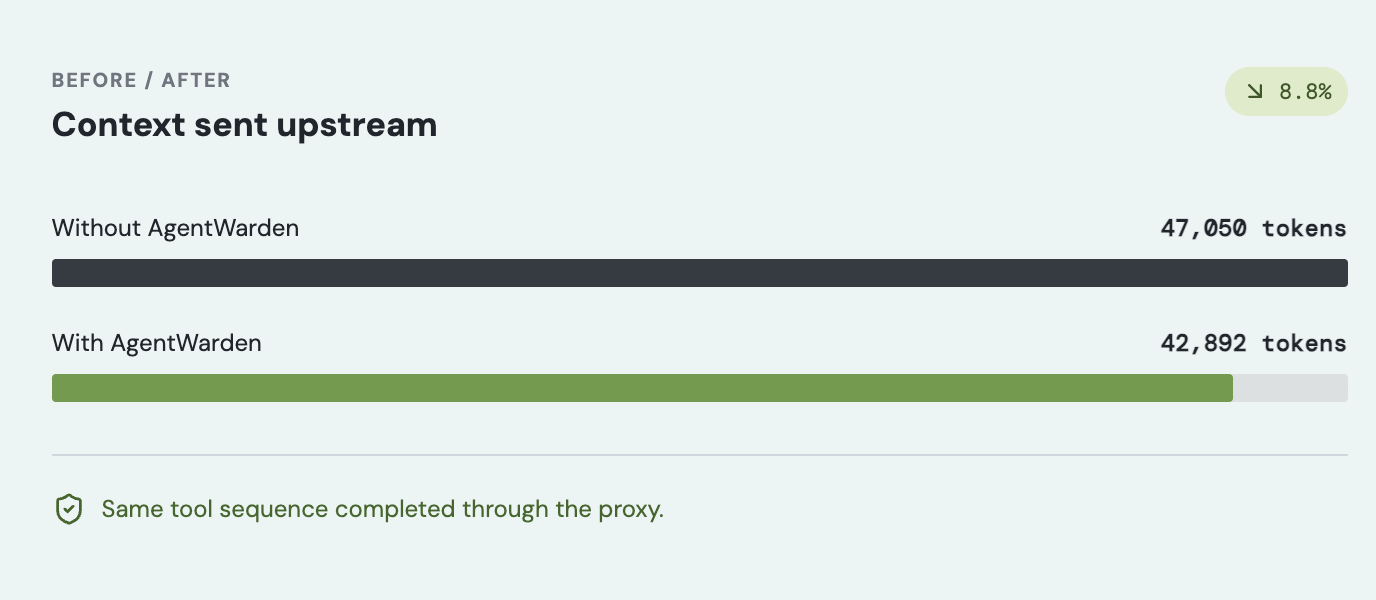
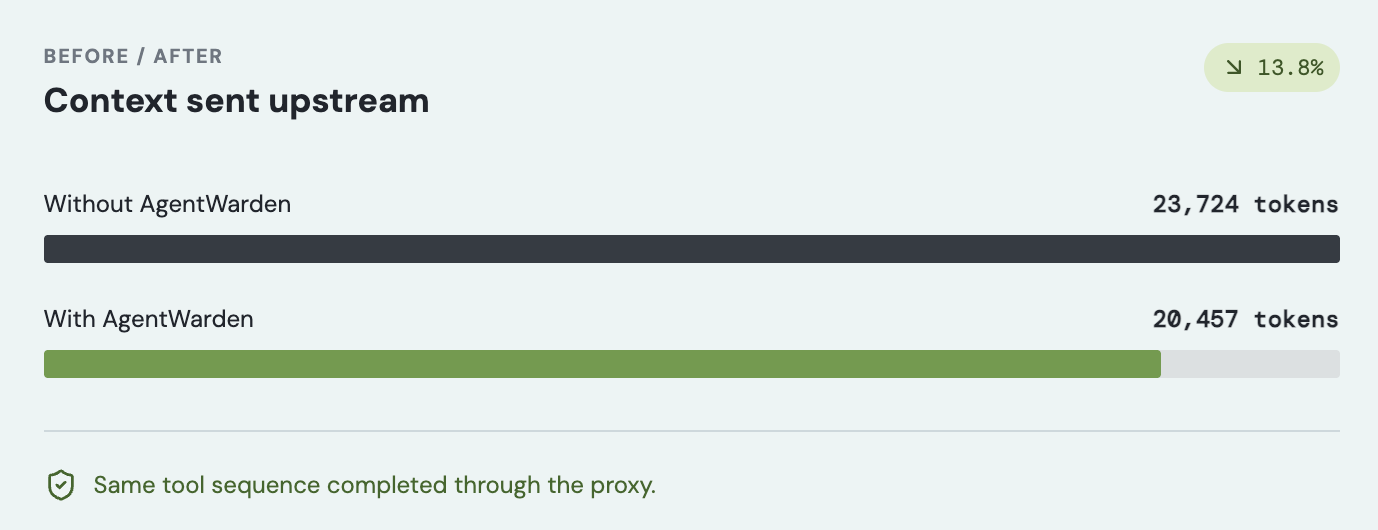
docs: update savings receipt evidence

diff --git a/site/app/page.tsx b/site/app/page.tsx
@@ -74,7 +74,7 @@ export default function Home() {
             </div>
           </div>
           <figure className="product-shot savings-shot">
-            <img src="/screenshots/tokens-saved.png" alt="AgentWarden before and after context receipt showing 8.8 percent reduction" />
+            <img src="/screenshots/tokens-saved.png" alt="AgentWarden before and after context receipt showing 13.8 percent reduction" />
             <figcaption>Controlled lead-enrichment workflow. Savings depend on repeated agent context.</figcaption>
           </figure>
         </div>

diff --git a/README.md b/README.md
@@ -70,7 +70,7 @@ reduce input cost by roughly **16-50%**, depending on the toolset and context.
 This is a workload-dependent range, not a guaranteed result. Always use the
 local receipt and replay verifier to measure your own agent.
 
-<img alt="AgentWarden before and after receipt showing input context reduced by 8.8 percent" src="https://raw.githubusercontent.com/Jahanshah1/AgentWarden/main/site/public/screenshots/tokens-saved.png" />
+<img alt="AgentWarden before and after receipt showing input context reduced by 13.8 percent" src="https://raw.githubusercontent.com/Jahanshah1/AgentWarden/main/site/public/screenshots/tokens-saved.png" />
 
 ## The four optimizers
 